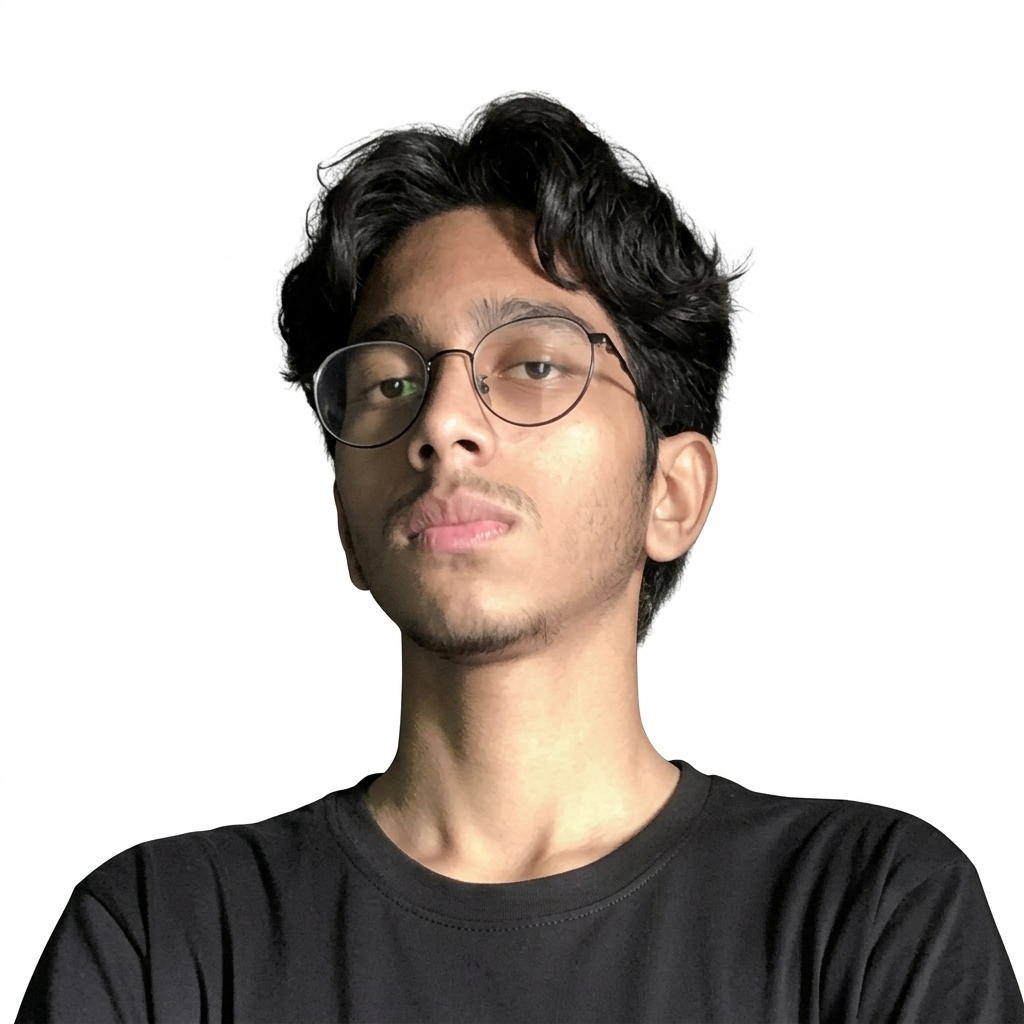
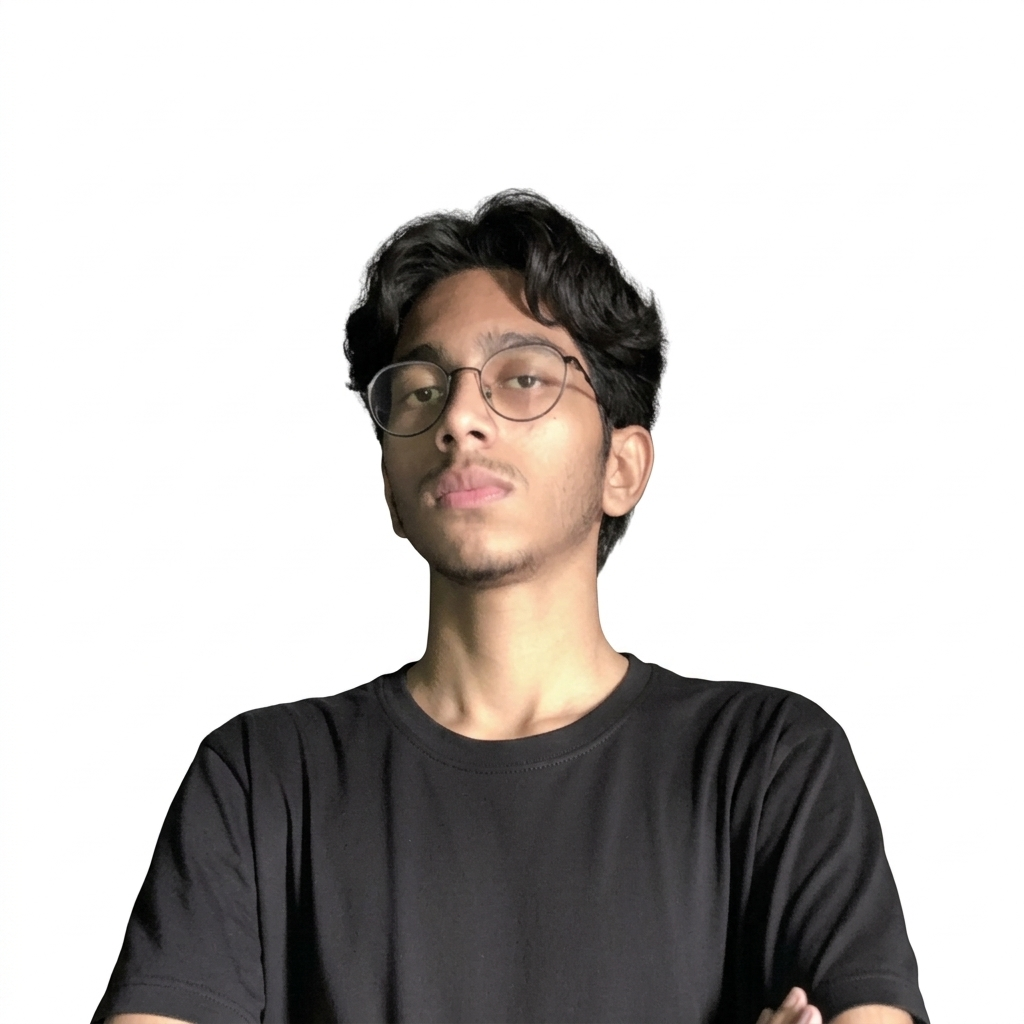
Replace PFP with dark background version, remove mix-blend-multiply

diff --git a/components/about/MyInfo.tsx b/components/about/MyInfo.tsx
@@ -14,7 +14,7 @@ function MyInfo() {
             src="/pfp.png"
             width={220}
             height={220}
-            className="rounded-full border-4 border-cyan-400/60 shadow-[0_0_30px_rgba(34,211,238,0.4)] object-cover object-top flex-shrink-0 mix-blend-multiply"
+            className="rounded-full border-4 border-cyan-400/60 shadow-[0_0_30px_rgba(34,211,238,0.4)] object-cover object-top flex-shrink-0"
             alt="Abdul Wahid"
           />
         </div>

diff --git a/components/about/BodyReport.tsx b/components/about/BodyReport.tsx
@@ -25,7 +25,7 @@ function BodyReport() {
               alt="Abdul Wahid"
               width={90}
               height={90}
-              className="rounded-full object-cover object-top mix-blend-multiply"
+              className="rounded-full object-cover object-top"
             />
           </div>
           <p className="text-xs font-bold text-zinc-500 uppercase tracking-widest">SPECIMEN</p>

diff --git a/app/hire-me/page.tsx b/app/hire-me/page.tsx
@@ -56,7 +56,7 @@ function Page() {
               priority
               width={280}
               height={280}
-              className="w-full h-auto grayscale-20 mix-blend-multiply"
+              className="w-full h-auto grayscale-20"
             />
 
             {/* Image status */}

diff --git a/components/profile/ProfileHero.tsx b/components/profile/ProfileHero.tsx
@@ -25,7 +25,6 @@ function ProfileHero() {
               h-auto
               object-contain
               rounded-xl
-              mix-blend-multiply
             "
           />
         </div>
